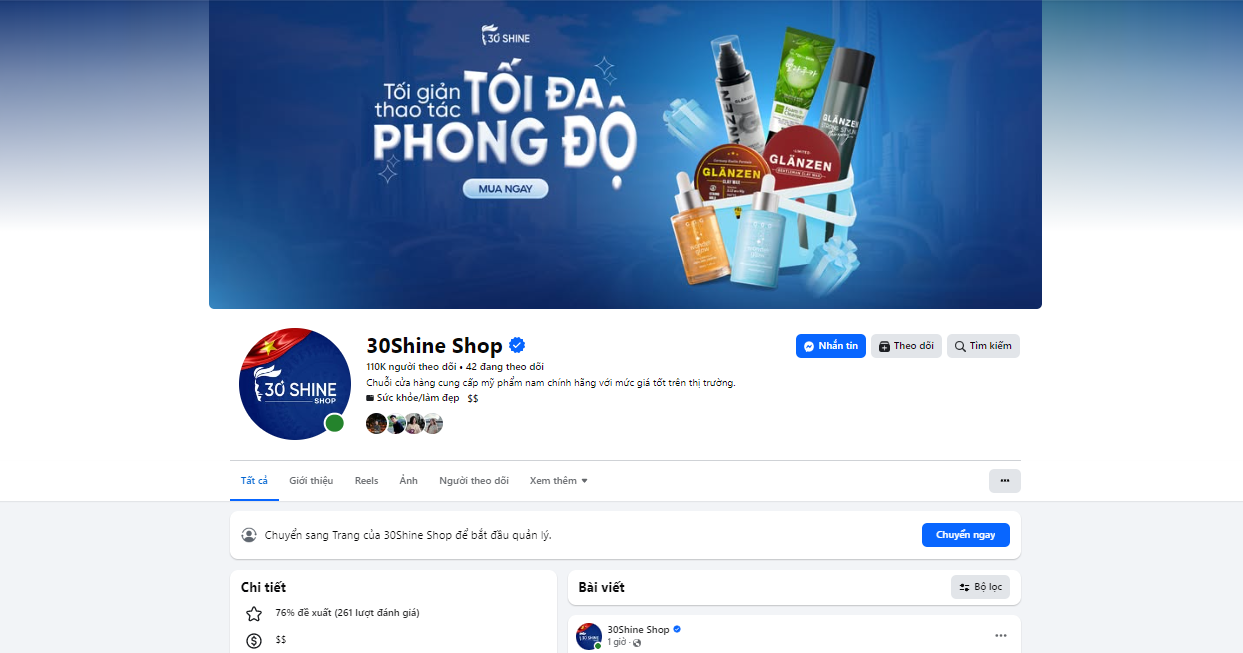
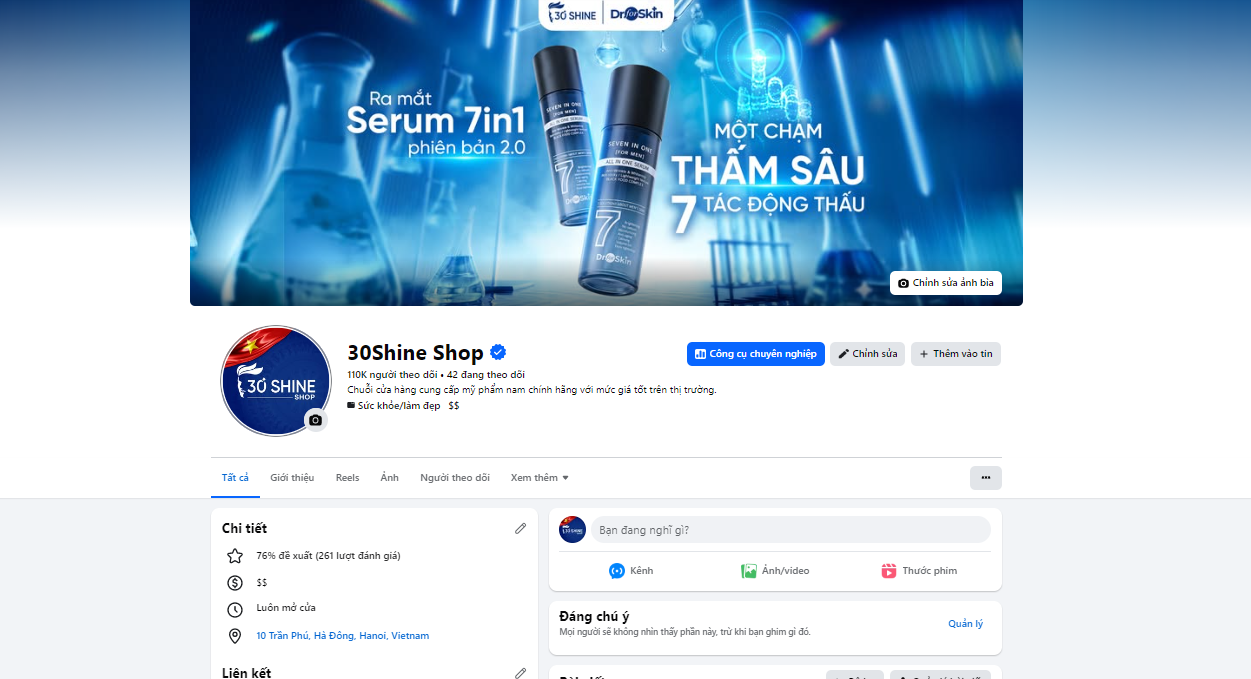
Update KV and fanpage images + HTML

diff --git a/index.html b/index.html
@@ -642,7 +642,7 @@
           </div>
         </div>
         <div class="hero-image">
-          <img src="Campaign RA MẮT SERUM/KeyVisual.jpg" alt="KV chiến dịch Serum Dr.Forskin 7in1 phiên bản 2.0">
+          <img src="Campaign RA MẮT SERUM/KV.jpg" alt="KV chiến dịch Serum Dr.Forskin 7in1 phiên bản 2.0">
         </div>
       </div>
 
